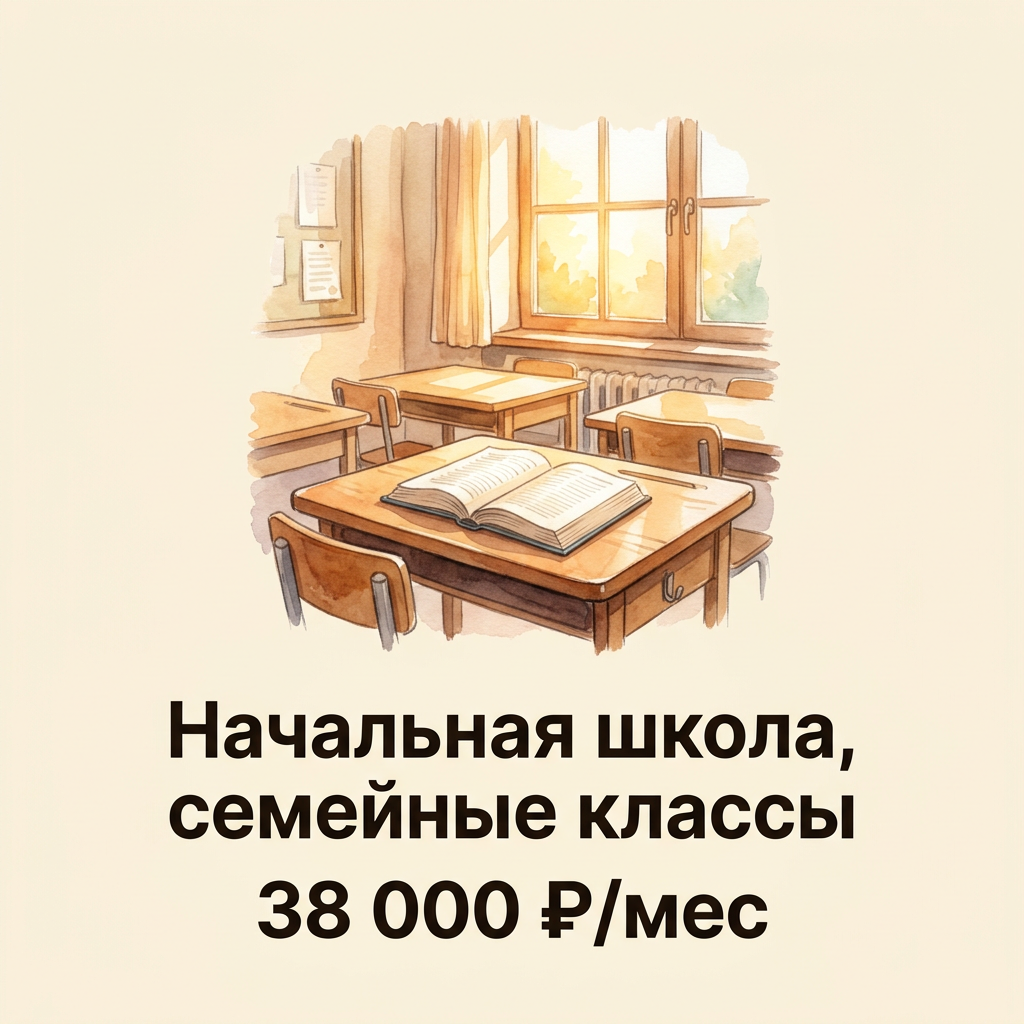
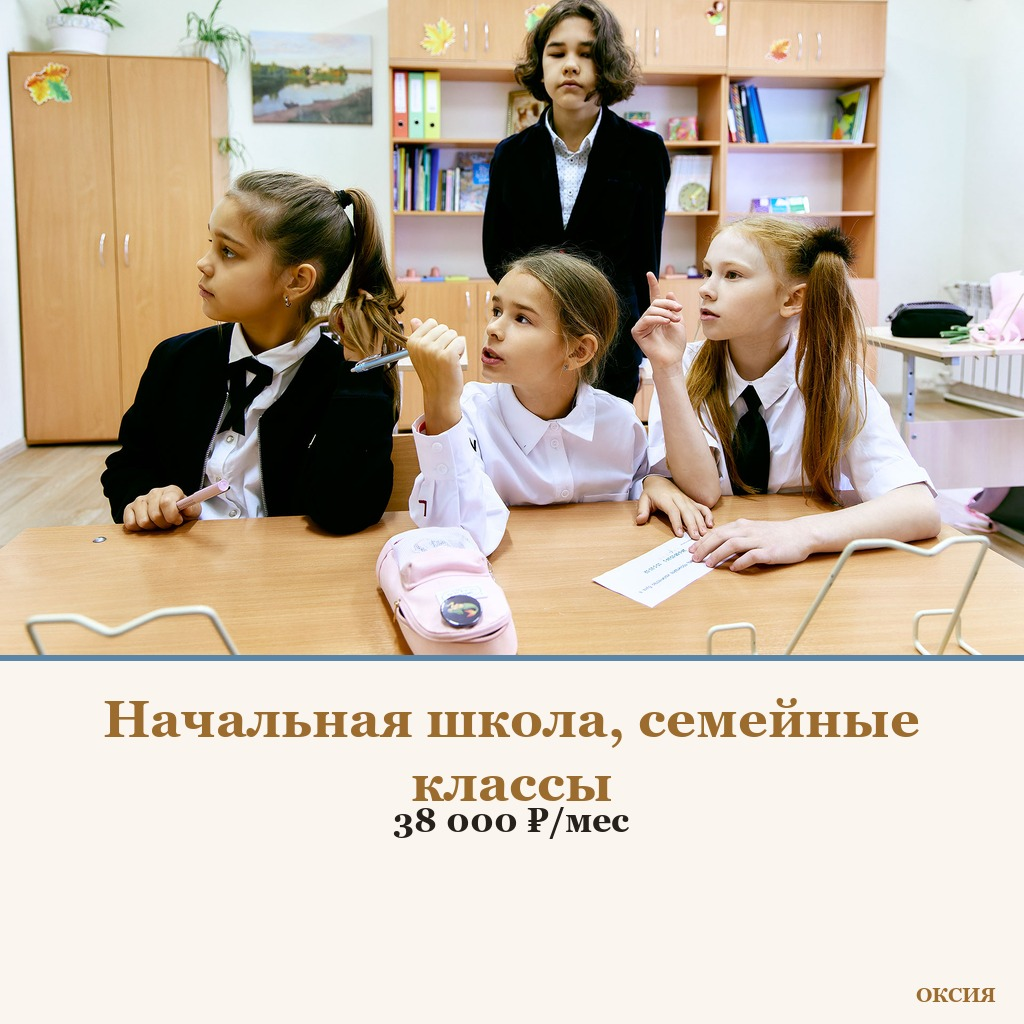
Реальные фото ОКСИИ: 10 обложек товаров, пилотная История «Подготовка к школе» (10 слайдов), Акции/События из брифа
- Обложки товаров переведены на реальные фото клиента (единый шаблон: фото + цвета бренда), Шахматы — фотореалистичное AI-фото в том же оформлении, добавлены недостающие Репетитор/Лепка/Творческое чтение
- Собрана целиком первая История «Подготовка к школе» (все 10 слайдов на реальных фото), финальный слайд — CTA на пробные занятия 3/8/10 сентября
- Заполнен раздел Акции/События по данным брифа от 01.09.2026
- Точечная правка текста Начальной школы по правкам Ольги
- Добавлены фото для События из папки Дошкольники

diff --git a/index.html b/index.html
@@ -189,14 +189,14 @@ footer{margin-top:56px; padding-top:22px; border-top:1px solid var(--border); co
 <div class="eyebrow">ОКСИЯ · Оформление карточки Яндекс Карт</div>
 <h1>Всё, что готово по ОКСИИ</h1>
 <p class="lede">Сводка по пяти блокам оформления: от текстов услуг до сторис. Открывайте нужный раздел, файлы и картинки лежат по указанным путям.</p>
-<p class="updated">Собрано 18.08.2026</p>
+<p class="updated">Собрано 18.08.2026 · обновлено 01.09.2026</p>
 
 <div class="progress">
   <span class="chip done"><span class="dot"></span>1. Товары и услуги: готово</span>
   <span class="chip done"><span class="dot"></span>2. SEO-ключи: готово</span>
   <span class="chip done"><span class="dot"></span>3. Публикации: готово</span>
-  <span class="chip done"><span class="dot"></span>4. Истории: готово</span>
-  <span class="chip wait"><span class="dot"></span>5. Акции / События: ждём данные</span>
+  <span class="chip wait"><span class="dot"></span>4. Истории: 1 из 6 на реальных фото, 5 — сценарий</span>
+  <span class="chip done"><span class="dot"></span>5. Акции / События: готово</span>
 </div>
 
 <section id="services">
@@ -212,7 +212,7 @@ footer{margin-top:56px; padding-top:22px; border-top:1px solid var(--border); co
       <span class="price-tag">38 000 ₽</span>
     </summary>
     <div class="price-body">
-      <p class="price-short"><strong>Короткое описание (телефон):</strong> Семейные классы на Васильевском острове по методике Русской классической школы. Ребёнка не торопят и не загружают лишней информацией раньше времени: педагог ведёт каждого ребёнка в своём темпе, сохраняя интерес учиться. Маленький класс до 12 человек, внимание к каждому, никто не чувствует себя отстающим.</p>
+      <p class="price-short"><strong>Короткое описание (телефон):</strong> Семейные классы на Васильевском острове по методике Русской классической школы. Ребёнка не торопят и не загружают лишней информацией раньше времени, но ведут: педагог ведёт каждого ребёнка в своём темпе, сохраняя интерес учиться. Маленький класс до 12 человек, персональное внимание и подходы к каждому, никто не чувствует себя отстающим или скучающим.</p>
       <p class="price-full"><strong>Полное описание (компьютер, до 3000 симв., использовано 1290):</strong><br>Семейные начальные классы на Васильевском острове<br><br>Небольшой класс. Педагог знает каждого ребёнка лично. Учим по методике Русской Классической Школы (РКШ).<br><br>Как мы работаем<br><br>Не гонимся за тем, чтобы ребёнок побыстрее прошёл программу: важнее, чтобы всё, что он учит, укладывалось в голове и не пугало. Даём время разобраться в своём темпе, сохраняя интерес учиться.<br><br>Что входит в программу<br><br>Чтение, письмо, арифметика. Всё остальное строится на этой основе.<br><br>Почему небольшой класс это важно<br><br>В классе на 25-30 человек педагог физически не успевает дойти до каждого за урок. У нас, если ребёнок чего-то не понял, разбираем сразу же, на месте, не откладываем на потом. При необходимости к занятиям подключаются логопед и психолог.<br><br>Что получает ребёнок<br><br>- Спокойную обстановку, без страха ошибиться<br>- Внимание педагога лично к нему<br>- Привычку рассуждать самостоятельно<br>- Базу, которая пригодится на годы вперёд<br><br>Частый вопрос<br><br>Ребёнок потом сможет перейти в обычную школу? Да, программа соответствует ФГОС. Перевод в другую школу проходит без разрыва в знаниях.<br><br>Для кого<br><br>Для родителей на Васильевском острове, которым важно понимать, чему и как учат их ребёнка в школе.<br><br>Васильевский остров, 16-я линия, д. 7<br>+7 (921) 556-07-24, телефон, Telegram, MAX<br>rksh-oksia.ru<br><br>Начальная школа Васильевский остров. Семейные классы для детей СПб. Частная начальная школа Васильевский остров.</p>
     </div>
   </details>
@@ -375,16 +375,33 @@ footer{margin-top:56px; padding-top:22px; border-top:1px solid var(--border); co
     <h2>4. Истории (сторис)</h2>
     <span class="status done">Готово</span>
   </div>
-  <p class="sec-sub">6 Историй, у каждой полный сценарий на 10 слайдов (лимит платформы). Обложки сгенерированы, полные файлы: в папке ai-router/output.</p>
+  <p class="sec-sub">6 Историй, у каждой полный сценарий на 10 слайдов (лимит платформы). Пилотная История «Подготовка к школе» уже собрана целиком на реальных фото ОКСИИ — образец стиля для остальных пяти. Обложки остальных пяти пока прежние (иллюстрации), полные файлы сценариев: в папке ai-router/output.</p>
   <div class="file-link">🖼 <code>код\01_проекты\Fox_Academy\интеграции\ai-router\output\</code></div>
 
   <div class="stories-grid">
     <div class="story-card"><img src="images/img001.jpg" alt="Семейные классы"><div class="cap">Семейные классы</div></div>
-    <div class="story-card"><img src="images/img002.jpg" alt="Подготовка к школе"><div class="cap">Подготовка к школе</div></div>
+    <div class="story-card"><img src="images/img002.jpg" alt="Подготовка к школе"><div class="cap">Подготовка к школе — готова целиком ✓</div></div>
     <div class="story-card"><img src="images/img003.jpg" alt="Дополнительные занятия"><div class="cap">Дополнительные занятия</div></div>
     <div class="story-card"><img src="images/img004.jpg" alt="Педагоги"><div class="cap">Педагоги</div></div>
     <div class="story-card"><img src="images/img005.jpg" alt="Как проходят занятия"><div class="cap">Как проходят занятия</div></div>
     <div class="story-card"><img src="images/img006.jpg" alt="Как записаться"><div class="cap">Как записаться</div></div>
+  </div>
+
+  <div class="story-detail" open>
+    <summary>✓ «Подготовка к школе» — все 10 слайдов готовы (пилот, на согласование)</summary>
+    <p class="sec-sub" style="margin:14px 0 16px;">Фото — из папки Натальи «Дошкольники» на Яндекс.Диске. Последний слайд ведёт на актуальную акцию (бесплатные пробные занятия 3, 8, 10 сентября). Если стиль подходит — по нему соберу оставшиеся 5 Историй.</p>
+    <div class="stories-grid">
+      <div class="story-card"><img src="images/img002.jpg" alt="Слайд 1"><div class="cap">1. Обложка</div></div>
+      <div class="story-card"><img src="images/img017.jpg" alt="Слайд 2"><div class="cap">2. Возрасты 4-7 лет</div></div>
+      <div class="story-card"><img src="images/img018.jpg" alt="Слайд 3"><div class="cap">3. 4 года — 6 000 ₽</div></div>
+      <div class="story-card"><img src="images/img019.jpg" alt="Слайд 4"><div class="cap">4. 5 лет — 8 800 ₽</div></div>
+      <div class="story-card"><img src="images/img020.jpg" alt="Слайд 5"><div class="cap">5. 6-7 лет — 8 800 ₽</div></div>
+      <div class="story-card"><img src="images/img021.jpg" alt="Слайд 6"><div class="cap">6. Методика РКШ</div></div>
+      <div class="story-card"><img src="images/img022.jpg" alt="Слайд 7"><div class="cap">7. Небольшая группа</div></div>
+      <div class="story-card"><img src="images/img023.jpg" alt="Слайд 8"><div class="cap">8. Итог: читающий и уверенный</div></div>
+      <div class="story-card"><img src="images/img024.jpg" alt="Слайд 9"><div class="cap">9. Любой возраст от 4 лет</div></div>
+      <div class="story-card"><img src="images/img025.jpg" alt="Слайд 10"><div class="cap">10. CTA: пробное занятие</div></div>
+    </div>
   </div>
 
   <details class="story-detail">
@@ -484,12 +501,12 @@ footer{margin-top:56px; padding-top:22px; border-top:1px solid var(--border); co
   </details>
 </section>
 
-<section id="products-cover-draft">
+<section id="products-cover">
   <div class="sec-head">
-    <h2>Вариант обложек для товаров (на согласование)</h2>
-    <span class="status wait">Черновик, 6 из 10</span>
+    <h2>Обложки товаров</h2>
+    <span class="status done">Готово, 10 из 10</span>
   </div>
-  <p class="sec-sub">Альтернативный дизайн для карточек в разделе "Товары и услуги", без логотипа. Фон теперь на всю карточку, без пустых углов. Осталось доделать: Репетитор, Лепка из полимерной глины, Шахматы, Творческое чтение.</p>
+  <p class="sec-sub">Единый стиль: реальные фото ОКСИИ (с Яндекс.Диска), внизу — название и цена в фирменных цветах. Исключение — Шахматы: реальных фото занятия не нашлось, обложка собрана из фотореалистичного AI-изображения в том же оформлении, чтобы не выбиваться из ряда.</p>
   <div class="stories-grid">
     <div class="story-card"><img src="images/img007.jpg" alt="Начальная школа, семейные классы"><div class="cap">Начальная школа, семейные классы</div></div>
     <div class="story-card"><img src="images/img008.jpg" alt="Подготовка к школе, 6-7 лет"><div class="cap">Подготовка к школе, 6-7 лет</div></div>
@@ -497,30 +514,51 @@ footer{margin-top:56px; padding-top:22px; border-top:1px solid var(--border); co
     <div class="story-card"><img src="images/img010.jpg" alt="Подготовка к школе, 4 года"><div class="cap">Подготовка к школе, 4 года</div></div>
     <div class="story-card"><img src="images/img011.jpg" alt="Подготовка к школе, 5 лет"><div class="cap">Подготовка к школе, 5 лет</div></div>
     <div class="story-card"><img src="images/img012.jpg" alt="Логопед"><div class="cap">Логопед</div></div>
+    <div class="story-card"><img src="images/img013.jpg" alt="Репетитор"><div class="cap">Помощь школьникам, репетитор</div></div>
+    <div class="story-card"><img src="images/img014.jpg" alt="Лепка из полимерной глины"><div class="cap">Лепка из полимерной глины</div></div>
+    <div class="story-card"><img src="images/img015.jpg" alt="Творческое чтение"><div class="cap">Творческое чтение</div></div>
+    <div class="story-card"><img src="images/img016.jpg" alt="Шахматы"><div class="cap">Шахматы (AI-фото, реальных снимков нет)</div></div>
   </div>
 </section>
 
 <section id="promo">
   <div class="sec-head">
     <h2>5. Акции и События</h2>
-    <span class="status wait">Ждём данные</span>
+    <span class="status done">Готово</span>
   </div>
+  <p class="sec-sub">Данные из брифа (дополнен 01.09.2026): бесплатные пробные занятия по подготовке к школе, 3 даты в сентябре. Один факт оформлен в двух форматах — под Акцию и под Событие, у них разные лимиты и разное место на карточке.</p>
   <div class="promo-note">
-    <strong>Не заполнено в брифе</strong>: пункты 6.1 и 6.2 (скидки, ближайшие даты) пустые. Акции и события не придумываю за клиента: ниже только рабочий шаблон под реальные лимиты платформы, готовый принять факты от Натальи.
+    <strong>Срочно:</strong> первая дата — 3 сентября, послезавтра. У Событий модерация до 7 дней, можно не успеть. Акции модерируются быстрее (до 48 часов) — грузить в первую очередь, как только будет доступ.
   </div>
-  <div class="table-wrap">
-    <table>
-      <tr><th>Поле</th><th>Лимит платформы</th></tr>
-      <tr><td>Акция: текст анонса</td><td>до 70 символов</td></tr>
-      <tr><td>Акция: описание</td><td>до 200 символов</td></tr>
-      <tr><td>Акция: фото</td><td>JPG/PNG, от 900×480 px</td></tr>
-      <tr><td>Акция: даты начала/конца</td><td>модерация до 48 часов, начало ставить за 2-3 дня до факта</td></tr>
-      <tr><td>Событие: тип</td><td>один из 19 готовых типов Яндекса (мастер-класс, день открытых дверей и т.д.)</td></tr>
-      <tr><td>Событие: описание</td><td>до 3000 символов</td></tr>
-      <tr><td>Событие: фото</td><td>до 4 шт., JPG/PNG, от 320×160 px</td></tr>
-      <tr><td>Событие: даты начала/конца</td><td>модерация до 7 дней</td></tr>
-    </table>
-  </div>
+
+  <details class="price-detail" open>
+    <summary>
+      <span class="price-name">Акция: бесплатное пробное занятие</span>
+      <span class="price-cat">Подготовка к школе</span>
+    </summary>
+    <div class="price-body">
+      <p class="price-short"><strong>Текст анонса (до 70 симв., использовано 48):</strong> Бесплатное пробное занятие по подготовке к школе</p>
+      <p class="price-full"><strong>Описание (до 200 симв., использовано 151):</strong><br>3, 8 и 10 сентября — бесплатные пробные занятия по подготовке к школе. 6-7 лет в 16:00, 4-5 лет в 17:00. Записаться: +7 (921) 556-07-24, Telegram, MAX.</p>
+    </div>
+  </details>
+
+  <details class="price-detail" open>
+    <summary>
+      <span class="price-name">Событие: пробная неделя для дошколят</span>
+      <span class="price-cat">Подготовка к школе</span>
+    </summary>
+    <div class="price-body">
+      <p class="price-short"><strong>Тип события:</strong> рекомендую «День открытых дверей» или «Мастер-класс» — точный вариант выбирается из 19 готовых типов Яндекса прямо в кабинете, заранее не проверить без доступа.</p>
+      <p class="price-full"><strong>Описание (до 3000 симв.):</strong><br>Бесплатные пробные занятия по подготовке к школе — 2 пробные недели для дошколят!<br><br>3 и 10 сентября (четверг), 8 сентября (вторник):<br>— 16:00: дети 6-7 лет<br>— 17:00: дети 4-5 лет<br><br>Приходите посмотреть, как проходят занятия, познакомиться с педагогом и форматом группы — без обязательств, бесплатно.<br><br>Васильевский остров, 16-я линия, д. 7<br>Запись: +7 (921) 556-07-24 (телефон, Telegram, MAX)</p>
+      <p class="price-full" style="margin-top:10px;"><strong>Фото (до 4 шт., из папки Натальи «Дошкольники»):</strong></p>
+      <div class="stories-grid">
+        <div class="story-card"><img src="images/img026.jpg" alt="Фото для события 1"></div>
+        <div class="story-card"><img src="images/img027.jpg" alt="Фото для события 2"></div>
+        <div class="story-card"><img src="images/img028.jpg" alt="Фото для события 3"></div>
+        <div class="story-card"><img src="images/img029.jpg" alt="Фото для события 4"></div>
+      </div>
+    </div>
+  </details>
 </section>
 
 <footer>
